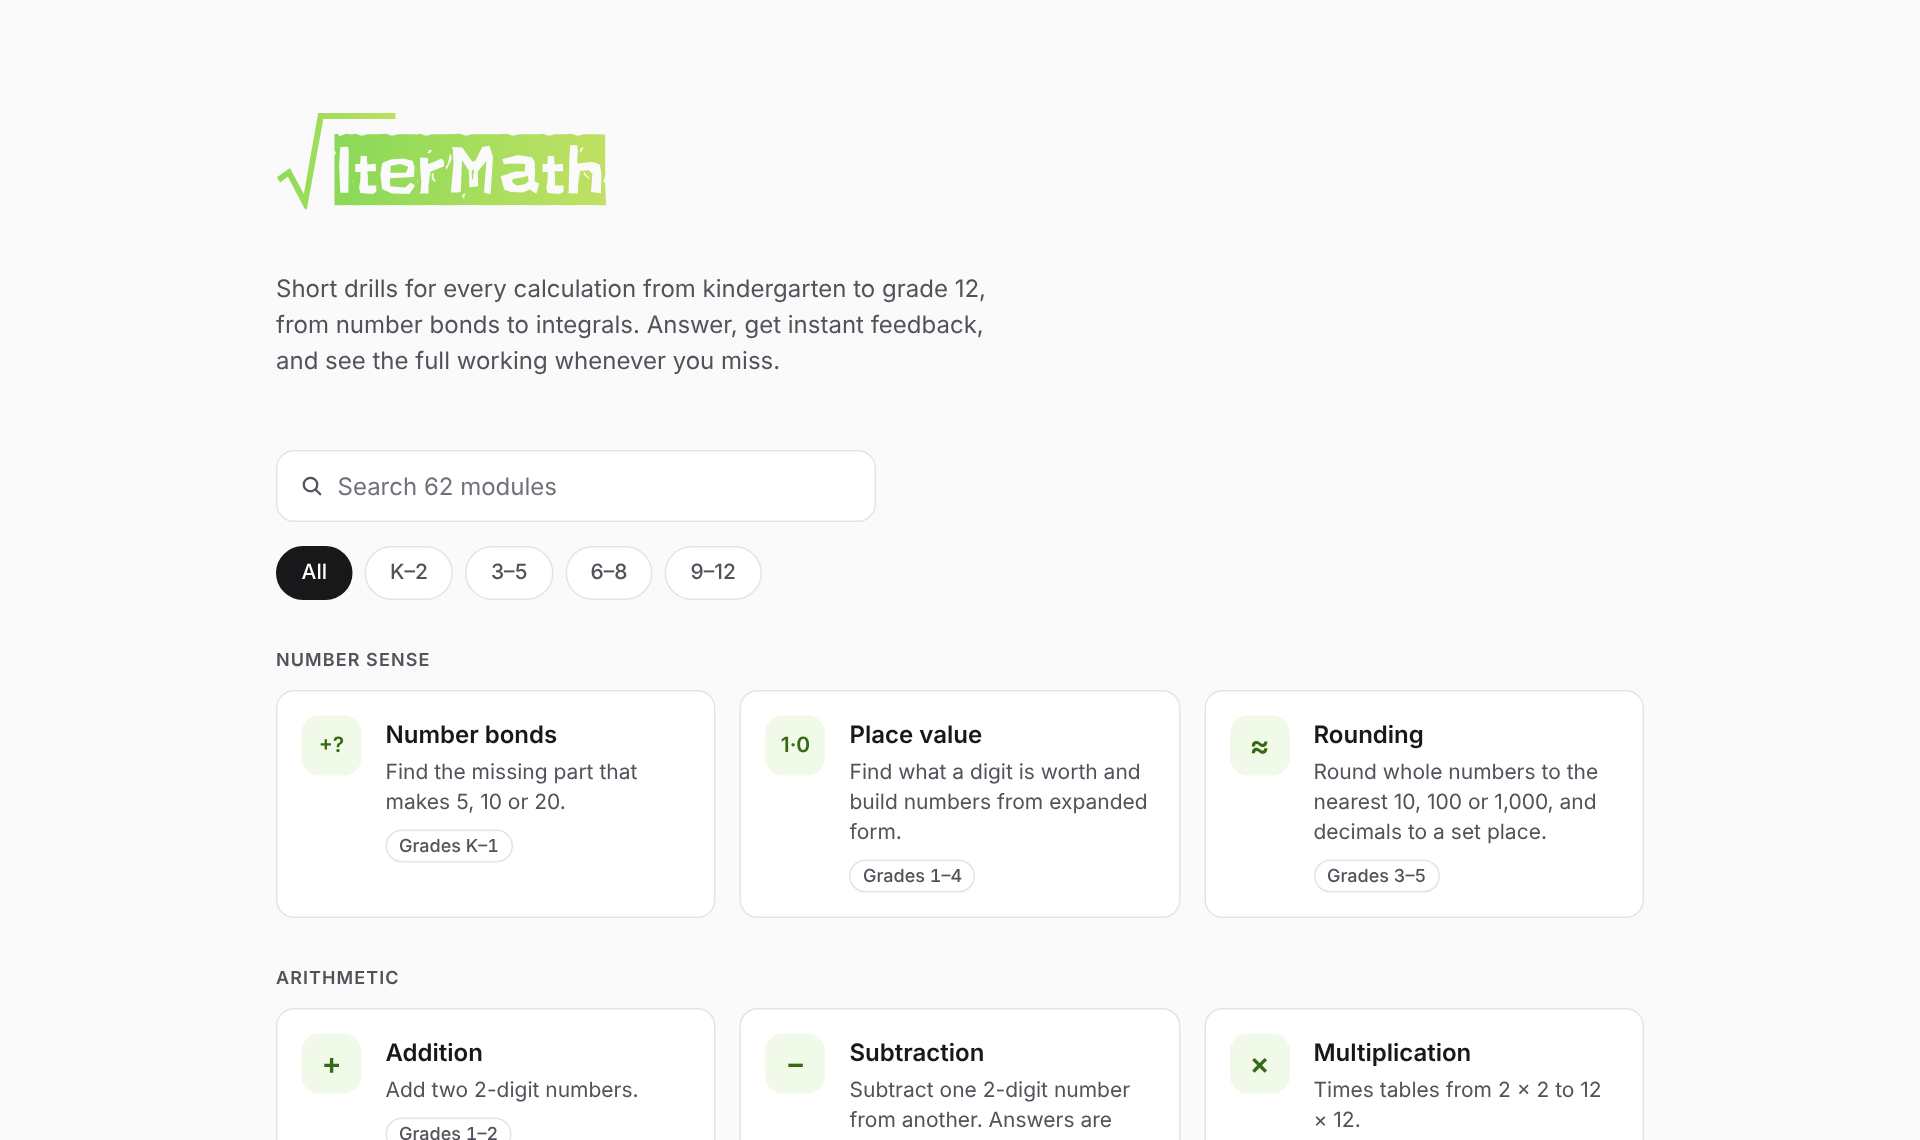
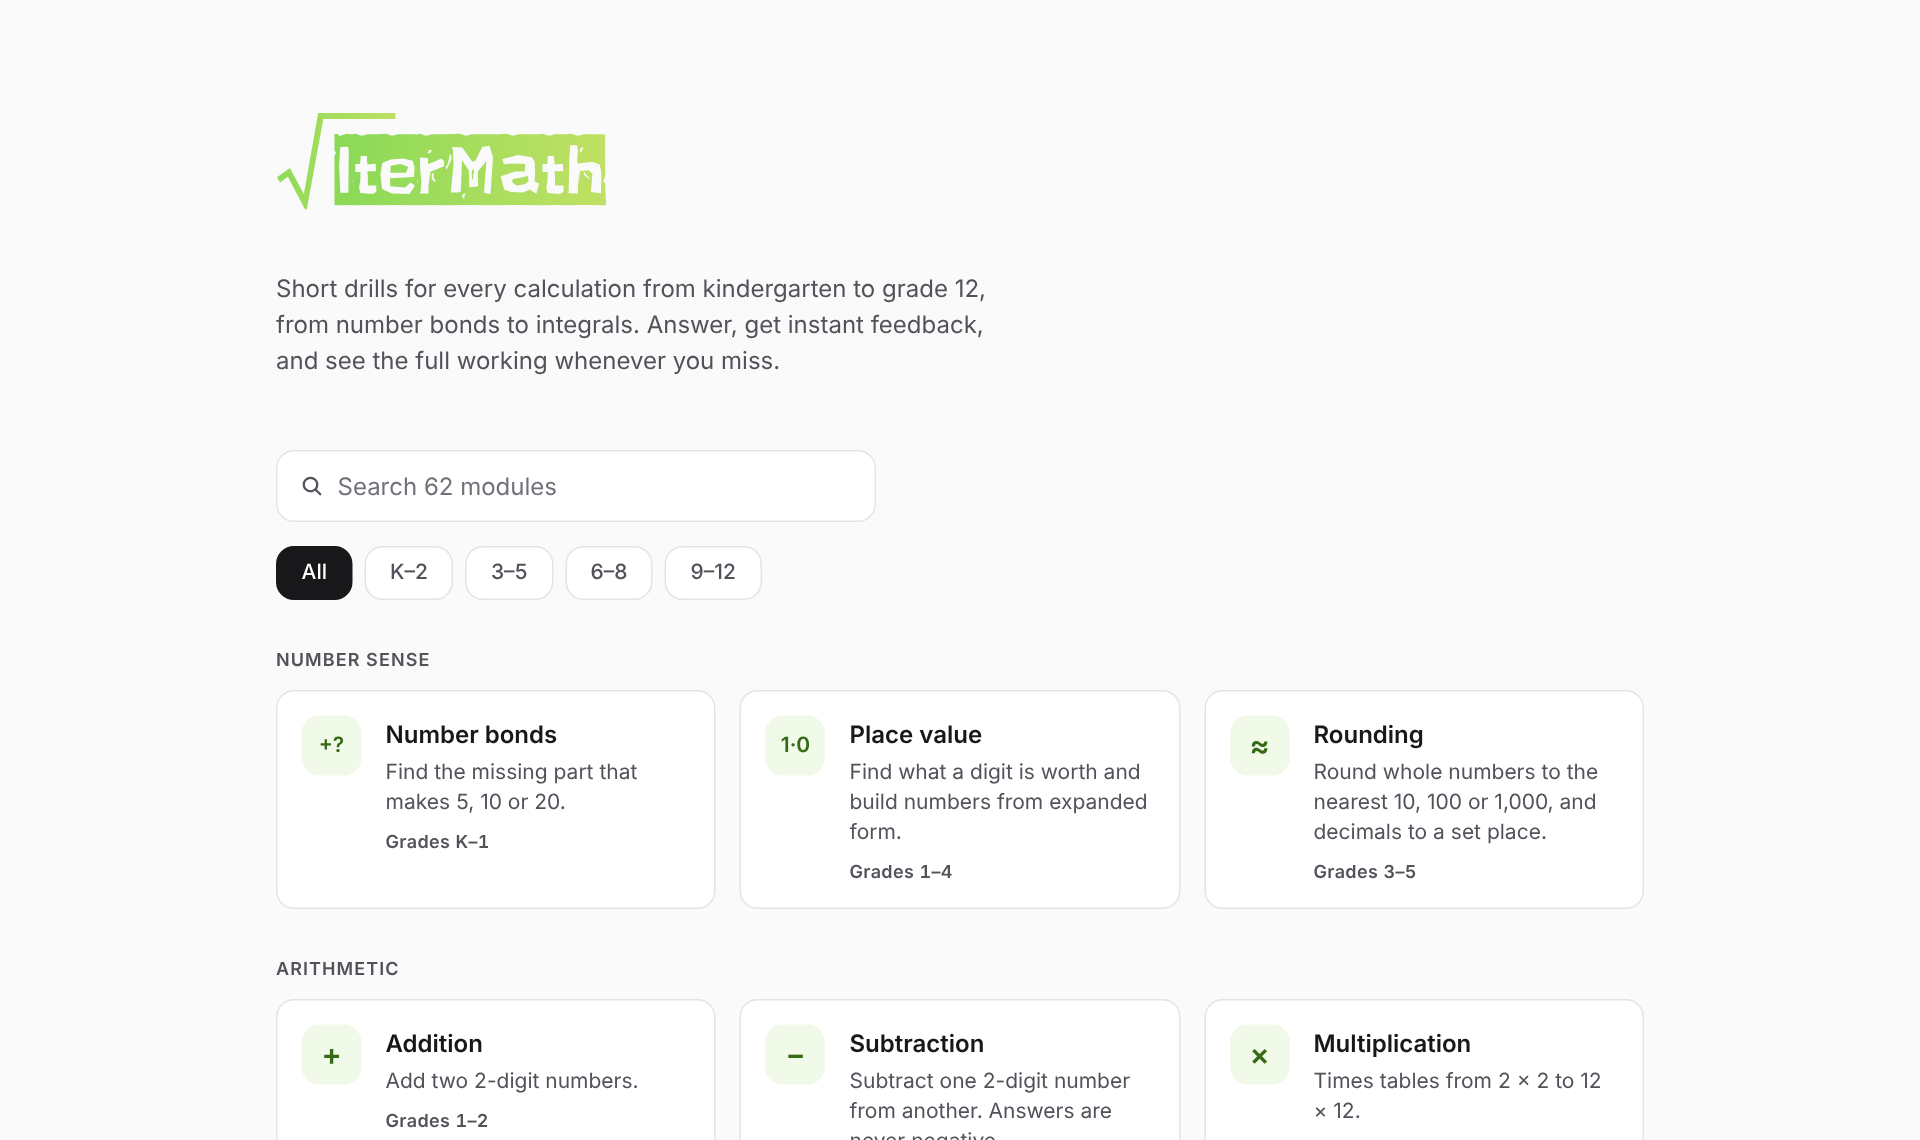
Apply design system fixes

diff --git a/assets/style.css b/assets/style.css
@@ -195,13 +195,11 @@ main { flex: 1; }
 .module-title { font-weight: 600; }
 .module-desc { display: block; margin-top: var(--s1); }
 .module-grade {
-  display: inline-block;
+  display: block;
   margin-top: var(--s2);
-  padding: 0 var(--s2);
-  border: 1px solid var(--border);
-  border-radius: 999px;
   color: var(--muted);
-  font-size: 12px; line-height: 20px; font-weight: 500;
+  font-size: 12px; line-height: 16px; font-weight: 600;
+  letter-spacing: .02em;
   font-variant-numeric: tabular-nums;
 }
 
@@ -215,7 +213,7 @@ main { flex: 1; }
   height: 36px;
   padding: 0 var(--s4);
   border: 1px solid var(--border);
-  border-radius: 999px;
+  border-radius: var(--radius);
   background: var(--surface);
   color: var(--muted);
   font-size: 14px; line-height: 20px; font-weight: 500;
@@ -429,15 +427,17 @@ sub { vertical-align: -.25em; }
   vertical-align: middle;
   margin-right: .15em;
 }
-.bigop-sign { font-size: 1.5em; line-height: 1; font-weight: 400; }
+.bigop-sign { font-size: 1.6em; line-height: 1; font-weight: 400; }
 .bigop-limits {
   display: inline-flex;
   flex-direction: column;
   justify-content: space-between;
   align-self: stretch;
-  margin-left: .1em;
-  font-size: .55em;
-  line-height: 1.2;
+  margin-left: .2em;
+  margin-right: .15em;
+  padding: .1em 0;
+  font-size: .5em;
+  line-height: 1.25;
 }
 .lim { flex-direction: column; line-height: 1.1; }
 .lim > span:last-child { font-size: .55em; line-height: 1.2; font-weight: 400; }

diff --git a/index.html b/index.html
@@ -361,7 +361,7 @@
           </li>
           <li data-grades="3-7">
             <a class="card module" href="practice/area-perimeter/">
-              <span class="tile" aria-hidden="true">▭</span>
+              <span class="tile tile--sm" aria-hidden="true"><i>lw</i></span>
               <span>
                 <span class="module-title">Area and perimeter</span>
                 <span class="module-desc small muted">Rectangles, squares, triangles, parallelograms and trapezoids.</span>
@@ -401,7 +401,7 @@
           </li>
           <li data-grades="8-9">
             <a class="card module" href="practice/pythagorean-theorem/">
-              <span class="tile" aria-hidden="true">⊿</span>
+              <span class="tile tile--sm" aria-hidden="true"><i>c</i>²</span>
               <span>
                 <span class="module-title">Pythagorean theorem</span>
                 <span class="module-desc small muted">Find a missing side of a right triangle with a² + b² = c².</span>

diff --git a/404.html b/404.html
@@ -4,9 +4,11 @@
   <meta charset="utf-8">
   <meta name="viewport" content="width=device-width, initial-scale=1, viewport-fit=cover">
   <title>Page not found · IterMath</title>
+  <meta name="description" content="This page does not exist. Every IterMath practice module is listed on the home page.">
   <meta name="robots" content="noindex">
   <meta name="theme-color" content="#fafafa">
   <link rel="icon" href="/assets/favicon.svg" type="image/svg+xml">
+  <link rel="apple-touch-icon" href="/assets/apple-touch-icon.png">
   <link rel="stylesheet" href="/assets/style.css">
 </head>
 <body>

diff --git a/README.md b/README.md
@@ -18,7 +18,7 @@
   <img src="https://img.shields.io/badge/modules-62-89d957" alt="62 modules">
   <img src="https://img.shields.io/badge/grades-K%E2%80%9312-356b14" alt="Grades K–12">
   <img src="https://img.shields.io/badge/dependencies-none-18181b" alt="No dependencies">
-  <img src="https://img.shields.io/badge/hosted%20on-Cloudflare%20Pages-f38020" alt="Hosted on Cloudflare Pages">
+  <img src="https://img.shields.io/badge/hosted%20on-Cloudflare%20Pages-52525b" alt="Hosted on Cloudflare Pages">
 </p>
 
 <p align="center">
